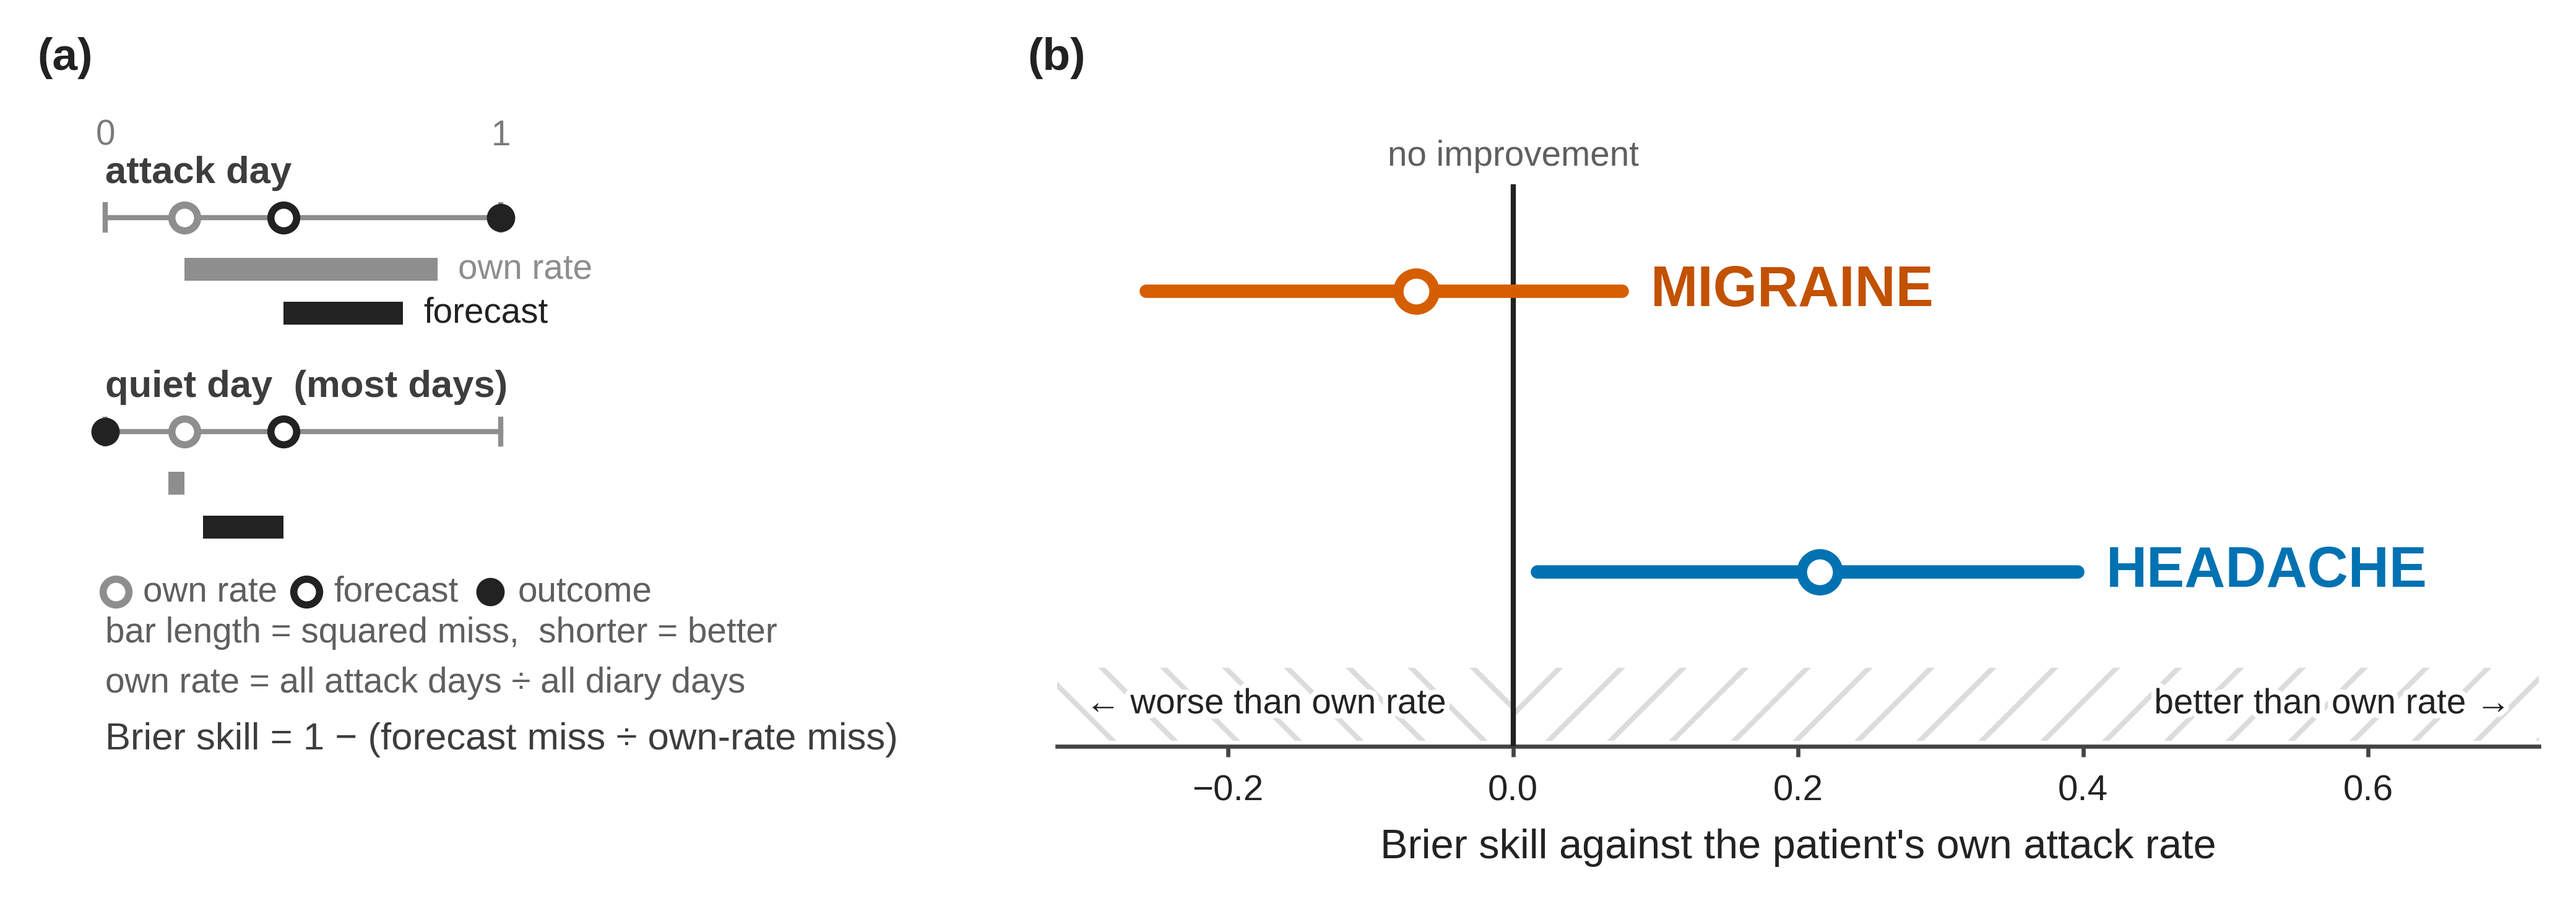
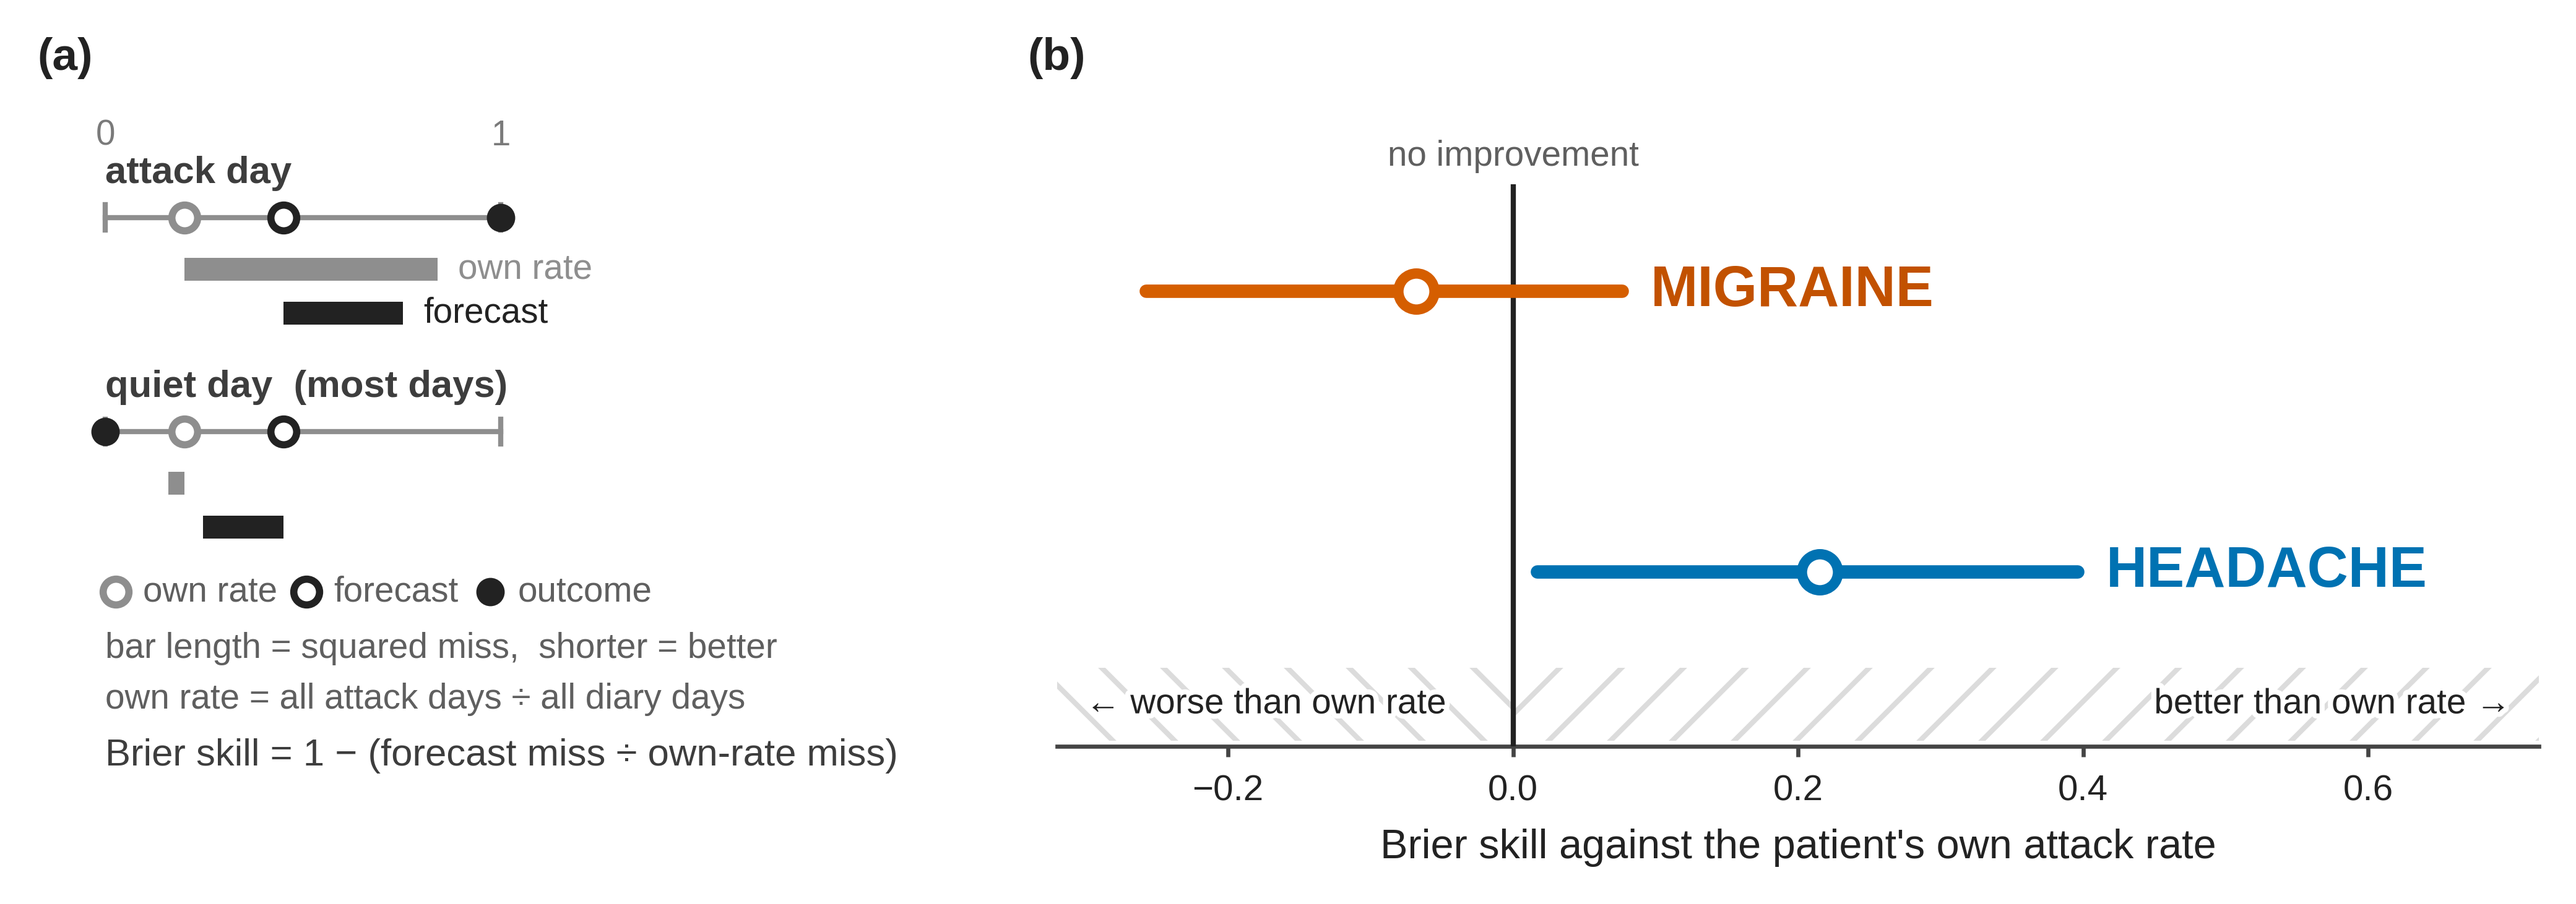
blk

Changed region(s): [[0.0312, 0.6772, 0.3436, 0.8618]]

diff --git a/docs/methodAndResults_diagramCreatorScripts/fig_m_evaluation_series.py b/docs/methodAndResults_diagramCreatorScripts/fig_m_evaluation_series.py
@@ -196,9 +196,9 @@ def _how_brier(ax):
         ax.plot([mx], [KY], "o", ms=ms_, mfc=mfc, mec=mec, mew=1.4, zorder=4)
         _lab(ax, lx, KY, txt, PT_FINE, SECOND)
     # both rules apply to the whole panel, so they sit together at the foot
-    _lab(ax, x0, 18, "bar length = squared miss,  shorter = better", PT_FINE, SECOND)
-    _lab(ax, x0, 10, "own rate = all attack days \u00f7 all diary days", PT_FINE, SECOND)
-    _lab(ax, x0, 1, "Brier skill = 1 \u2212 (forecast miss \u00f7 own-rate miss)",
+    _lab(ax, x0, 15.5, "bar length = squared miss,  shorter = better", PT_FINE, SECOND)
+    _lab(ax, x0, 7.5, "own rate = all attack days \u00f7 all diary days", PT_FINE, SECOND)
+    _lab(ax, x0, -1.5, "Brier skill = 1 \u2212 (forecast miss \u00f7 own-rate miss)",
          PT_BODY, BODY)
 
 
